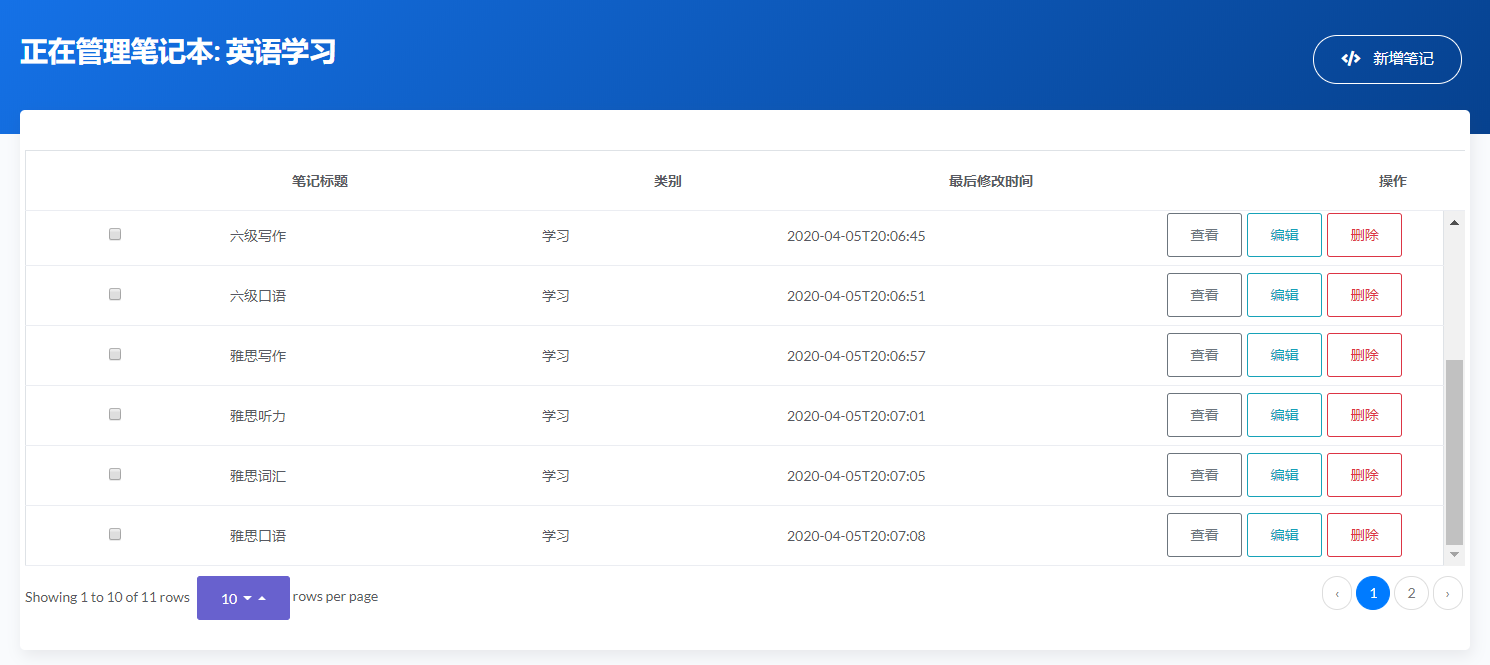
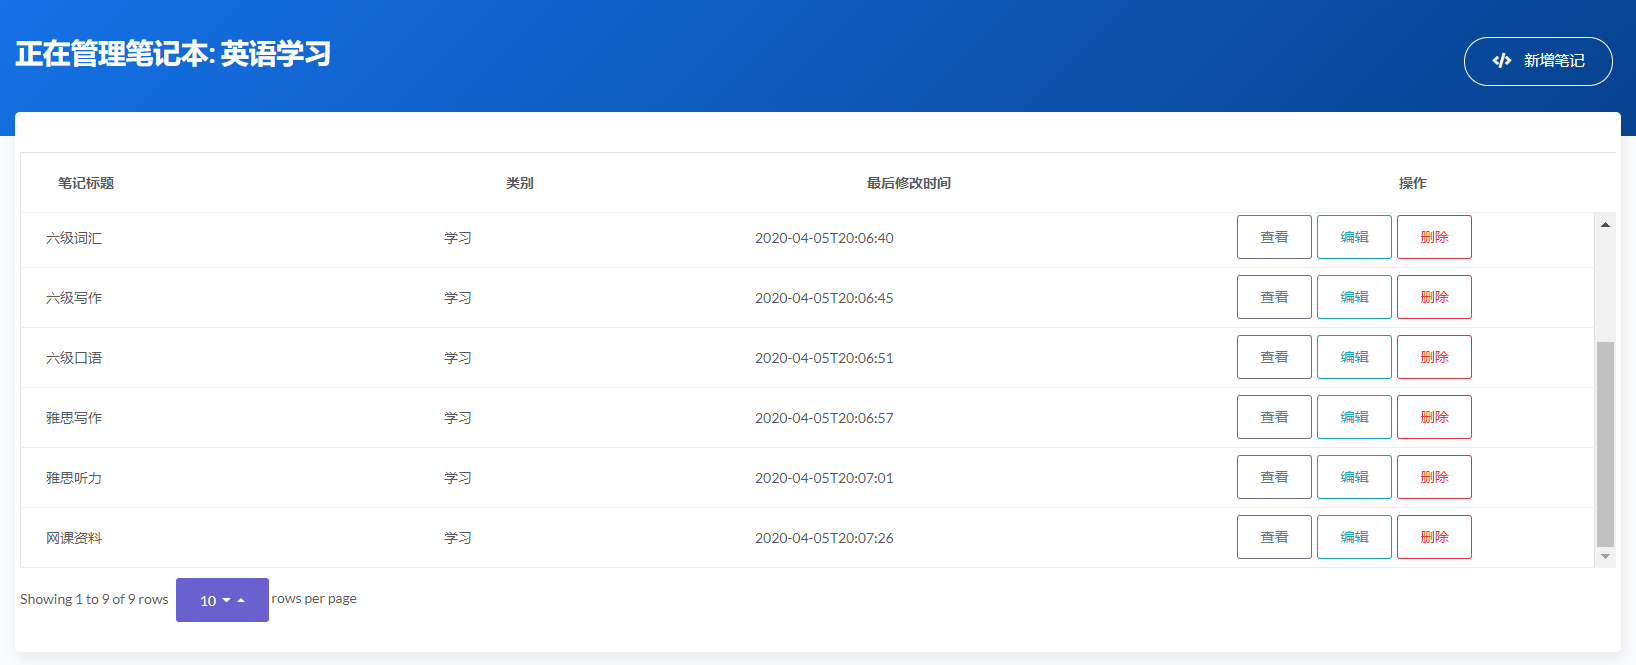
实现 笔记 删除

diff --git a/noter/src/main/resources/static/notelist.html b/noter/src/main/resources/static/notelist.html
@@ -248,10 +248,6 @@
             singleSelect: true,                  // 开启单选
             columns: [
                 {
-                    checkbox: true,
-                    width:20,
-                },
-                {
                     field:'id',
                     title:'id',
                     width:40,
@@ -298,11 +294,13 @@
 
     //操作栏的格式化
     function actionFormatter(value, row, index) {
+        var title = row.title;
         var btnView = "<button type=\"button\" class=\"btn btn-outline-secondary\">";
         var btnEdit = "<button type=\"button\" class=\"btn btn-outline-info\">";
-        var btnDel = "<button type=\"button\" class=\"btn btn-outline-danger\">";
+        var btnDel = "<button type=\"button\" class=\"btn btn-outline-danger\" onclick=\"delNote('" + row.id +"','" + title + "')\" >";
         var btnEnd = "</button>";
 
+        console.log("Btn : " + row.id + " " + row.title);
         var result = "";
         result += btnView + "查看" + btnEnd;
         result += "&nbsp;&nbsp;";
@@ -319,6 +317,64 @@
         result = value.substring(0,19);
         return result;
     };
+
+    function  delNote(noteID, title) {
+        var userID = getCookie('id');
+        var noteID = noteID;
+        var title = title;
+        console.log(noteID + " " + title);
+        var data = {"userID": userID , "noteID": noteID};
+
+        swal({
+            title: "删除确认",
+            text: "确定要删除笔记: " + title + " ?",
+            icon: "warning",
+            buttons: true,
+            dangerMode: true,
+        }).then((flag) => {
+                if(flag) {
+                    $.ajax({
+                        type: "GET",
+                        url: "/note/deleteNote",
+                        contentType: "application/x-www-form-urlencoded;charset=utf-8",
+                        data: data,
+                        success: function (r) {
+                            console.log(r);
+                            if(r.result===true){
+                                swal("删除成功 ", {
+                                    icon : "success",
+                                    buttons: {
+                                        confirm: {
+                                            text: "Yee",
+                                            className : 'btn btn-success'
+                                        },
+                                    },
+                                }).then(function(){
+                                    window.location.href = "notelist.html";
+                                });
+                            }else{
+                                swal("删除失败", r.message, {
+                                    icon : "error",
+                                    buttons: {
+                                        confirm: {
+                                            className : 'btn btn-danger'
+                                        }
+                                    },
+                                });
+                            }
+
+                        }
+                    });
+                }
+            }
+        );
+    }
+
+    function setCookie(name,value,expires){
+        let exp = new Date();
+        exp.setTime(exp.getTime() + expires*1000);
+        document.cookie = name + "="+ escape (value) + ";expires=" + exp.toGMTString();
+    }
 
 </script>
 
